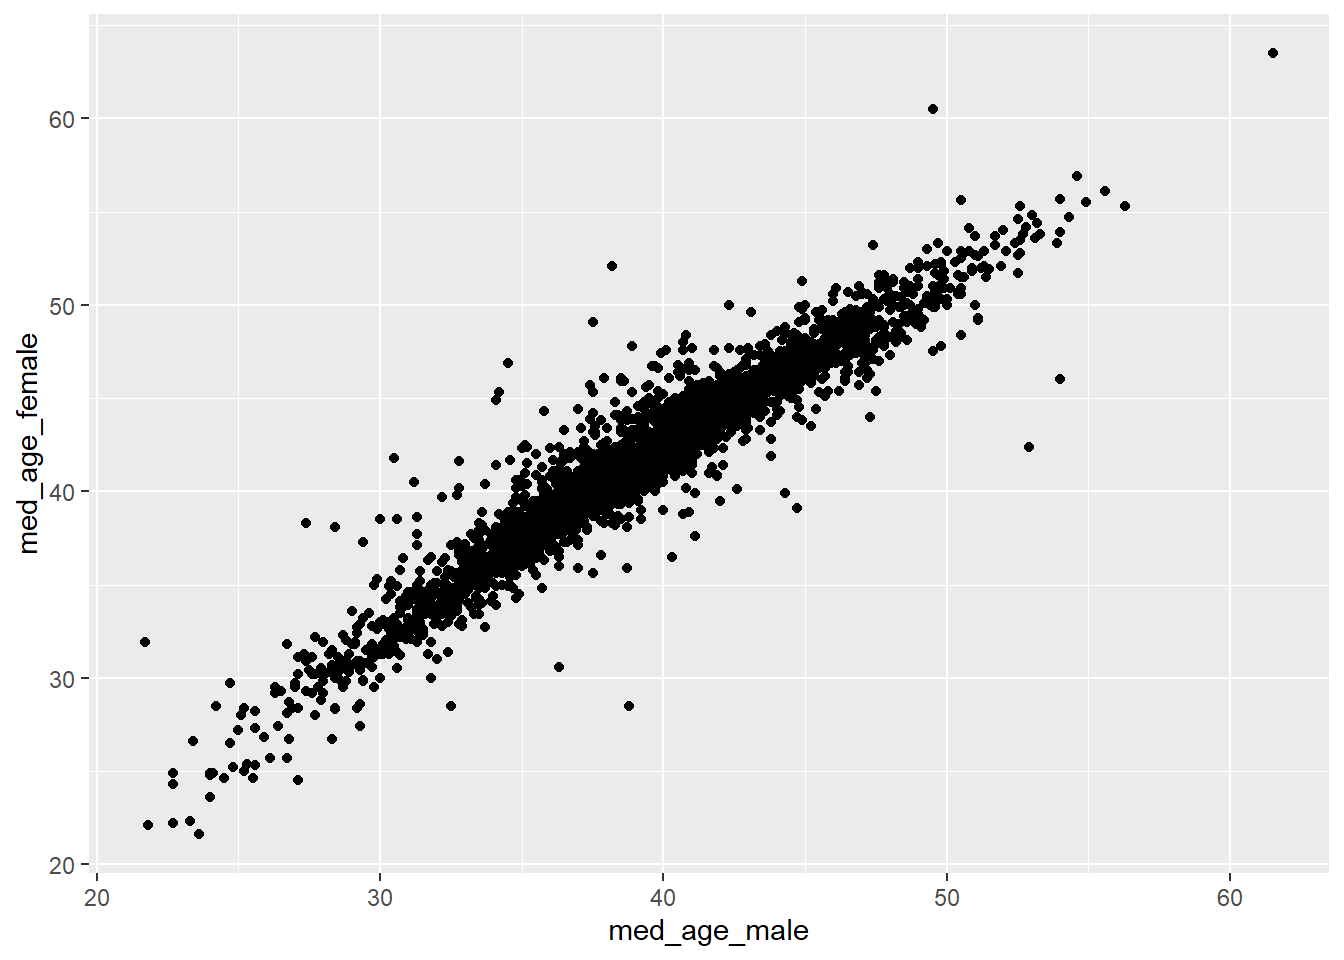
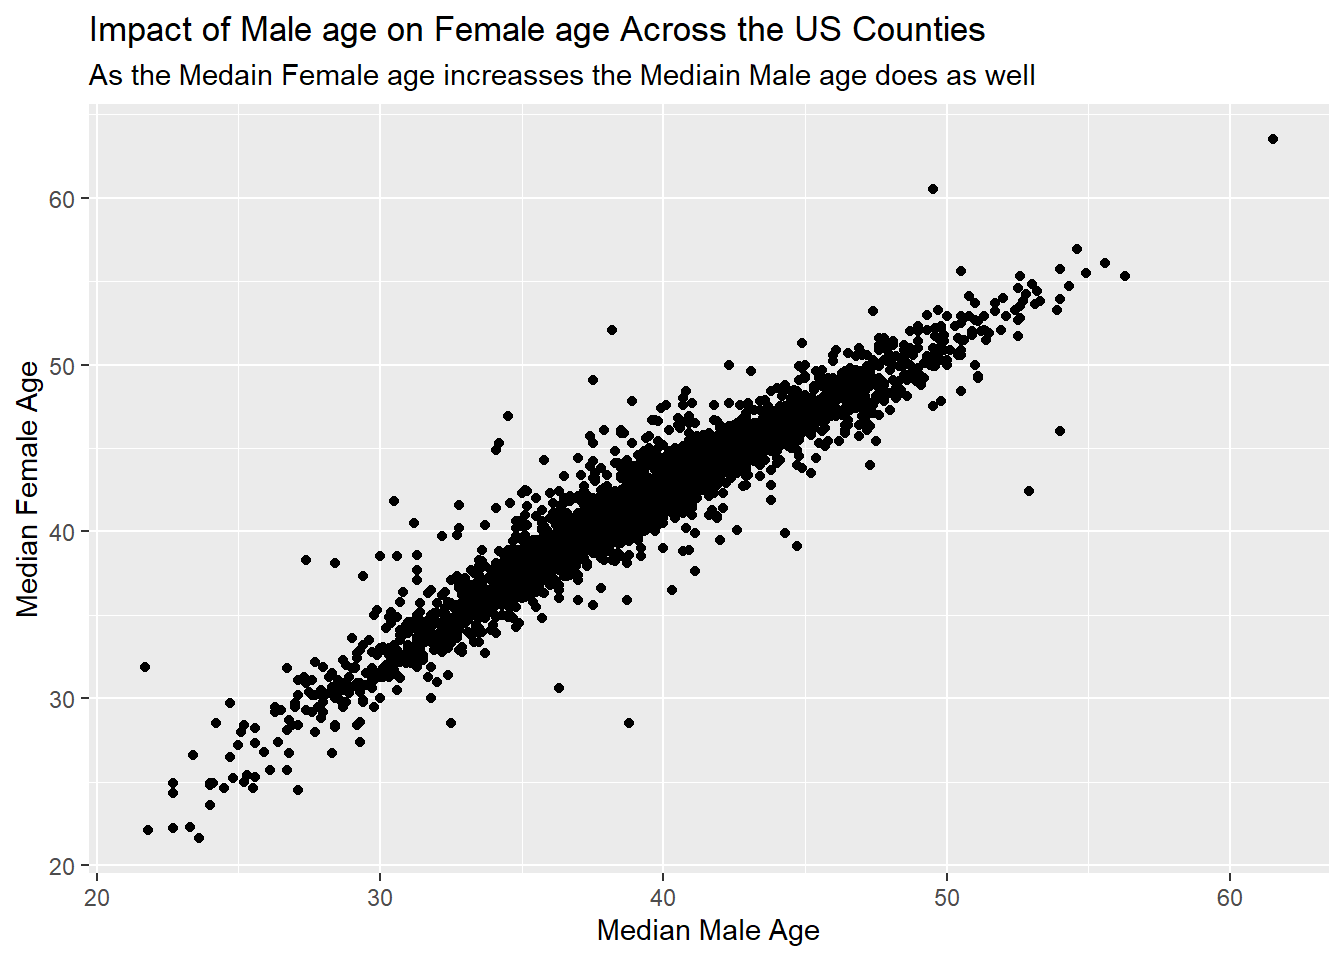
new changes

diff --git a/_site/index.html b/_site/index.html
@@ -227,7 +227,11 @@ This warning is displayed once per session.</code></pre>
 <div class="cell">
 <div class="sourceCode cell-code" id="cb9"><pre class="sourceCode r code-with-copy"><code class="sourceCode r"><span id="cb9-1"><a href="#cb9-1" aria-hidden="true" tabindex="-1"></a>x <span class="sc">|&gt;</span></span>
 <span id="cb9-2"><a href="#cb9-2" aria-hidden="true" tabindex="-1"></a>  <span class="fu">ggplot</span>(<span class="fu">aes</span>(<span class="at">x =</span> med_age_male, <span class="at">y =</span> med_age_female)) <span class="sc">+</span></span>
-<span id="cb9-3"><a href="#cb9-3" aria-hidden="true" tabindex="-1"></a>  <span class="fu">geom_point</span>()</span></code><button title="Copy to Clipboard" class="code-copy-button"><i class="bi"></i></button></pre></div>
+<span id="cb9-3"><a href="#cb9-3" aria-hidden="true" tabindex="-1"></a>  <span class="fu">geom_point</span>() <span class="sc">+</span></span>
+<span id="cb9-4"><a href="#cb9-4" aria-hidden="true" tabindex="-1"></a>  <span class="fu">labs</span>(<span class="at">title =</span> <span class="st">"Impact of Male age on Female age Across the US Counties"</span>,</span>
+<span id="cb9-5"><a href="#cb9-5" aria-hidden="true" tabindex="-1"></a>       <span class="at">subtitle =</span> <span class="st">"As the Medain Female age increasses the Mediain Male age does as well"</span>,</span>
+<span id="cb9-6"><a href="#cb9-6" aria-hidden="true" tabindex="-1"></a>       <span class="at">x =</span> <span class="st">"Median Male Age"</span>, </span>
+<span id="cb9-7"><a href="#cb9-7" aria-hidden="true" tabindex="-1"></a>       <span class="at">y =</span> <span class="st">"Median Female Age"</span>)</span></code><button title="Copy to Clipboard" class="code-copy-button"><i class="bi"></i></button></pre></div>
 <div class="cell-output-display">
 <p><img src="index_files/figure-html/unnamed-chunk-2-1.png" class="img-fluid" width="672"></p>
 </div>
